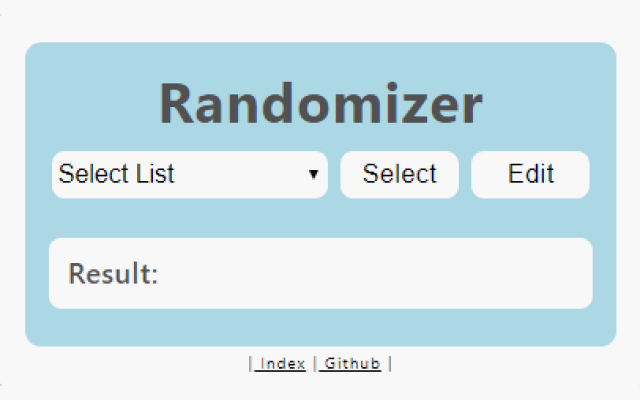
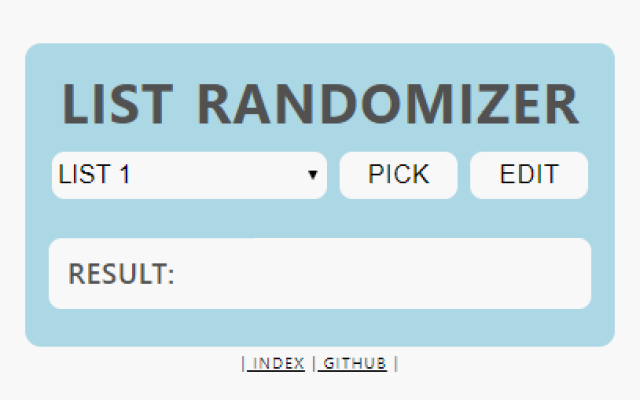
more updates (version 1.2)

diff --git a/edit.html b/edit.html
@@ -1,7 +1,7 @@
 <!DOCTYPE HTML>
 <HTML>
   <HEAD>
-    <title>List Randomizer</title>
+    <title>LIST RANDOMIZER</title>
     <link type="text/css" rel="stylesheet" href="extentionStyle.css">
     <script src="storage.js"></script>
   </HEAD>
@@ -9,19 +9,19 @@
     <div id="content">
       <center>
       <p>
-        <h1>List Randomizer</h1>
+        <h1>LIST RANDOMIZER</h1>
       </p>
       <textarea id="listContent" placeholder="Janette, Steve, Alex..."></textarea>
       <p>
-        <a href="popup.html"><button  id="backButton" type = "button">Back</button></a>
-        <a href="popup.html"><button  id="saveButton" type = "button">Save</button></a>
+        <a href="popup.html"><button  id="backButton" type = "button">BACK</button></a>
+        <a href="popup.html"><button  id="saveButton" type = "button">SAVE</button></a>
       </p>
       <br>
       </center>
     </div>
     <div id="footer">
-      |<a href="index.html" target="_blank"> Index</a>
-      |<a href="https://github.com/Fidosodd/RandomSelection" target="_blank"> Github</a>
+      |<a href="index.html" target="_blank"> INDEX</a>
+      |<a href="https://github.com/Fidosodd/RandomSelection" target="_blank"> GITHUB</a>
       |
     </div>
   </BODY>

diff --git a/storage.js b/storage.js
@@ -1,17 +1,16 @@
 //This script reads then writes to the chrome storage
 //Thanks (https://github.com/MilanDonhowe) for your amazing code!
 
-var listChange = 0;
+var listSave = 0;
 
 window.onload = function() {
   document.getElementById("saveButton").addEventListener("click", saveEdits);
   
   chrome.storage.local.get(['key'], function(value) {
           console.log('Value currently is ' + value.key);
-  
   let list = value.key;
   
-  listChange = list;
+  listSave = list;
 	
   let port = chrome.extension.connect({
     name: "Load List Items"
@@ -28,9 +27,6 @@ window.onload = function() {
 }
 let saveEdits = () => {
 	
-  if (listChange == 0) {
-      listChange = document.getElementById("listSelect").value;
-  }
   let textdata = document.getElementById('listContent').value;
 	
   let stripped = textdata.split(', ');
@@ -40,7 +36,7 @@ let saveEdits = () => {
   function slimDown(value){
       return value != "" && value != undefined
   }
-  listItems.unshift(listChange);
+  listItems.unshift(listSave);
 	
   let port = chrome.extension.connect({
     name: "Save List Items"

diff --git a/background.js b/background.js
@@ -57,13 +57,6 @@ chrome.extension.onConnect.addListener(function(port) {
             console.log(msg);
           });
           break;
-        case "listSelection":
-          msg.shift();
-          console.log(msg);
-          chrome.storage.local.set({"listSelection": msg}, function(){
-            console.log(msg);
-          });
-          break;
       }
     } else {
     
@@ -103,12 +96,6 @@ chrome.extension.onConnect.addListener(function(port) {
           chrome.storage.local.get({"list6": []}, function(data){
             console.log(data.list6);
             port.postMessage(data.list6);
-          });
-          break;
-        case "listSelection":
-          chrome.storage.local.get({"listSelection": []}, function(data){
-            console.log(data.listSelection);
-            port.postMessage(data.listSelection);
           });
           break;
       }

diff --git a/popup.html b/popup.html
@@ -1,7 +1,7 @@
 <!DOCTYPE HTML>
 <HTML>
   <HEAD>
-    <title>List Randomizer</title>
+    <title>LIST RANDOMIZER</title>
     <link type="text/css" rel="stylesheet" href="extentionStyle.css">
     <script src="random.js"></script>
   </HEAD>
